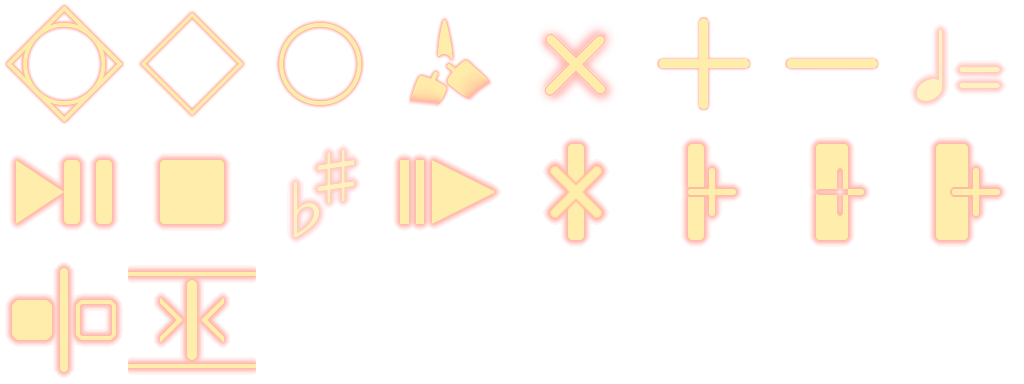
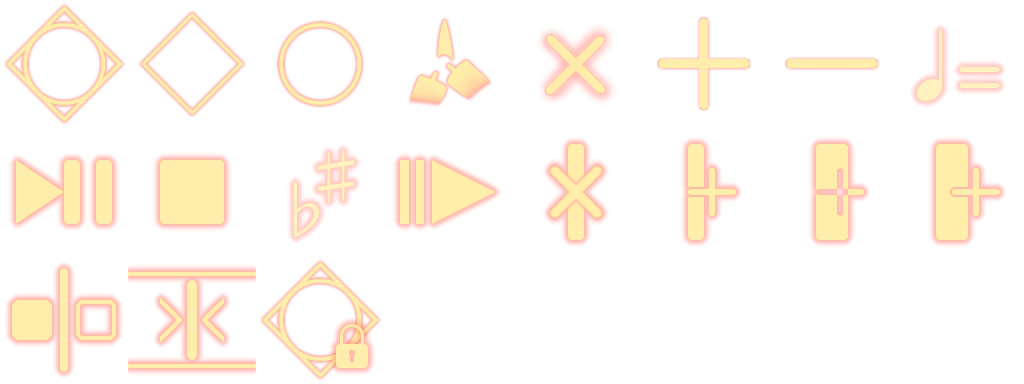
-

Changed region(s): [[0.25, 0.6875, 0.375, 1.0]]

diff --git a/seq.html b/seq.html
@@ -19,10 +19,10 @@
 	<script src="style.js" async></script>
 	<script src="sample.js"></script>
 	<style>
-		body{margin:0;user-select:none;-webkit-user-select:none;}*::-webkit-scrollbar{display:none;}
+		body{margin:0;user-select:none;-webkit-user-select:none;}/*::-webkit-scrollbar{display:none;}*/
 		.clear_fix::after{content:"";clear:both;display:block;}
 
-		.dispPanel{position:relative;width:100vw;height:240px;border:4px solid #0000;border-left:none;border-right:none;background:#000a repeating-linear-gradient(#fffc,#fffc 16px,#fff8 16px,#fff8 48px,#fffa 48px,#fffa 64px,#fff8 64px,#fff8 80px,#fffa 80px,#fffa 96px,#fff8 96px,#fff8 112px);}
+		.dispPanel{position:relative;width:100vw;height:240px;border:4px solid #0000;border-left:none;border-right:none;touch-action:manipulation;background:#000a repeating-linear-gradient(#fffc,#fffc 16px,#fff8 16px,#fff8 48px,#fffa 48px,#fffa 64px,#fff8 64px,#fff8 80px,#fffa 80px,#fffa 96px,#fff8 96px,#fff8 112px);}
 		.dispPanel>*,#dispScr>*{position:absolute;line-height:16px;font-size:8px;}
 		#dispScr{width:100%;height:100%;overflow:scroll;position:relative;}#disp{padding:0 64px 0 16px;display:flex;}
 		#dispCur{width:16px;height:100%;background:#f88;left:17px;transition:.1s;border-radius:4px;}
@@ -34,7 +34,7 @@
 		.grid{display:inline-block;width:48px;height:48px;margin:2px;background:#4448;color:#caf0f6;text-shadow:0 0 4px #688;border:none;border-radius:25%;box-shadow:0 0 8px #4448;text-align:center;vertical-align:middle;outline:none;font-size:18px;font-family:"M PLUS Rounded 1c",sans-serif;padding:0;touch-action:manipulation;}
 		.bg{background-image:url(img/seq.png);background-size:800% auto;background-position:var(--bp);}
 
-		.kbPanel{position:relative;width:100%;max-width:360px;float:left;clear:left;}.kbPanel:before{content:"";display:block;padding-top:60%;}
+		.kbPanel{position:relative;width:100%;max-width:360px;float:left;clear:left;touch-action:none;}.kbPanel:before{content:"";display:block;padding-top:60%;}
 		#kb{position:absolute;top:0;left:0;right:0;bottom:0;perspective:1000px;background:#0004;border-radius:8px;overflow:hidden;}#kb input{position:absolute;display:none;}#kb>div{height:33.3%;margin:0;}
 		#kb p{display:inline-block;width:20%;height:100%;margin:0;position:relative;}
 		#kb p::before,#kb p::after{content:"";display:block;width:84%;height:84%;margin:8%;border-radius:20%;position:absolute;}
@@ -45,10 +45,27 @@
 		#kb p:nth-child(4n):not(.c)::after{background-position:-100% 0;}
 		#kb input:checked+p::after{transform:rotateY(360deg)scale(.8);}
 
+		body>input[type="checkbox"]{display:none;}
 		#uiflip:checked~* .uiPanel{float:left;clear:left;}#uiflip:checked~* .kbPanel{float:right;clear:right;}
+		label[for="kblock"],label[for="tmute"],label[for="cmute"]{box-shadow:0 0 0 0 #fea inset;transition:.1s;}
+		#kblock:checked~* label[for="kblock"],#tmute:checked~* label[for="tmute"],#cmute:checked~* label[for="cmute"]{box-shadow:0 0 1px 3px #fea inset;}
+
+		.fg_{position:fixed;width:100vw;height:100vh;z-index:10;pointer-events:none;}
+		#alcb{display:none;}
+		#alcb+label{display:block;width:100%;height:100%;background:#0008;opacity:0;backdrop-filter:blur(2px);-webkit-backdrop-filter:blur(2px);pointer-events:none;transition:.2s;}
+		#alcb:checked+label{opacity:1;pointer-events:auto;}
+		#albox{width:calc(90% - 40px);max-width:256px;min-height:128px;border-radius:16px;padding:20px;white-space:pre-wrap;background:#4448;position:absolute;top:50%;left:50%;transform:translate(-50%,-50%);}
 	</style>
 	<style id="sty"></style>
-	<input type="checkbox" id="uiflip" style="display:none;">
+	<input type="checkbox" id="uiflip">
+	<input type="checkbox" id="kblock">
+	<input type="checkbox" id="tmute">
+	<input type="checkbox" id="cmute">
+	<div class="fg_">
+		<pre id="jswarn">Please enable JavaScript to use this app.</pre><script>jswarn.style.display='none';</script>
+		<input type="checkbox" id="alcb"><label for="alcb"><pre id="albox" class="style"></pre></label>
+	</div>
+
 
 	<div class="dispPanel">
 		<div id="dispScr"><div id="dispCur"></div><div id="disp"></div></div>
@@ -56,15 +73,17 @@
 	</div>
 	<div class="clear_fix">
 		<div class="uiPanel">
-			<div>
-				         <button class="grid bg" style="--bp:-300% -100%;transform:rotateZ(180deg);" onclick="tstep(-1);">
-				</button><button onclick="Tone.start();ttoggle();" class="grid bg" style="--bp:0 -100%;"></button><button onclick="tstop();" class="grid bg" style="--bp:-100% -100%;">
-				</button><button class="grid bg" style="--bp:-300% -100%;" onclick="tstep(1);"></button><br>
-				         <button class="grid bg" style="--bp:-400% -100%;">
-				</button><button class="grid bg" style="--bp:-500% -100%;">
-				</button><button class="grid bg" style="--bp:-600% -100%;">
-				</button><button class="grid bg" style="--bp:-700% -100%;"></button>
-			</div>
+			         <button class="grid bg" style="--bp:-300% -100%;transform:rotateZ(180deg);" onclick="tstep(-1);">
+			</button><button onclick="Tone.start();ttoggle();" class="grid bg" style="--bp:0 -100%;"></button><button onclick="tstop();" class="grid bg" style="--bp:-100% -100%;">
+			</button><button class="grid bg" style="--bp:-300% -100%;" onclick="tstep(1);"></button><br>
+			         <button class="grid bg" style="--bp:-400% -100%;">
+			</button><button class="grid bg" style="--bp:-500% -100%;">
+			</button><button class="grid bg" style="--bp:-600% -100%;">
+			</button><button class="grid bg" style="--bp:-700% -100%;"></button><br>
+			         <button onclick="userscr[0]=true;dispScr.scrollLeft=dispCur.getBoundingClientRect().left+dispScr.scrollLeft+window.scrollX-dispScr.clientWidth*.5;" class="grid bg" style="--bp:-100% -200%;">
+			</button><label for="kblock" class="grid bg" style="--bp:-200% -200%;">
+			</label><label for="tmute" class="grid bg" style="--bp:-300% -200%;">
+			</label><label for="cmute" class="grid bg" style="--bp:-300% -200%;"></label>
 		</div>
 		<div class="kbPanel">
 			<div id="kb">
@@ -74,14 +93,14 @@
 			</div>
 		</div>
 		<div class="uiPanel">
-			<div>
-				         <button onclick="main.bpm-=6;Tone.Transport.bpm.value-=6;bpm_.value=main.bpm;" class="grid bg" style="--bp:-600% 0;">
-				</button><input id="bpm_" class="grid bg" onchange="bpmset();" style="--bp:-700% 0;"></input><button onclick="main.bpm+=6;Tone.Transport.bpm.value+=6;bpm_.value=main.bpm;" class="grid bg" style="--bp:-500% 0;">
-				</button><br><button onclick="sc_.value=--main.sc;" class="grid bg" style="--bp:-600% 0;">
-				</button><input id="sc_" class="grid bg" onchange="scset();" style="--bp:-200% -100%;"></input><button onclick="sc_.value=++main.sc;" class="grid bg" style="--bp:-500% 0;"></button>
-			</div>
+			         <button onclick="main.bpm-=6;Tone.Transport.bpm.value-=6;bpm_.value=main.bpm;" class="grid bg" style="--bp:-600% 0;">
+			</button><input id="bpm_" class="grid bg" onchange="bpmset();" style="--bp:-700% 0;"></input><button onclick="main.bpm+=6;Tone.Transport.bpm.value+=6;bpm_.value=main.bpm;" class="grid bg" style="--bp:-500% 0;">
+			</button><br><button onclick="sc_.value=--main.sc;" class="grid bg" style="--bp:-600% 0;">
+			</button><input id="sc_" class="grid bg" onchange="scset();" style="--bp:-200% -100%;"></input><button onclick="sc_.value=++main.sc;" class="grid bg" style="--bp:-500% 0;"></button>
+		</div>
+		<div class="uiPanel">
 			<label for="uiflip" class="grid bg" style="--bp:0 -200%;">
-			</label><button onclick="userscr[0]=true;dispScr.scrollLeft=dispCur.getBoundingClientRect().left+dispScr.scrollLeft+window.scrollX-dispScr.clientWidth*.5;" class="grid bg" style="--bp:-100% -200%;"></button>
+			</label><button onclick="alert(info);" class="grid bg" style="--bp:-300% 0;"></button>
 		</div>
 	</div>
 
@@ -103,11 +122,13 @@
 	<script src="https://mcbeeringi.github.io/src/requestIdleCallback.min.js"></script>
 	<script>
 		'use strict';
+		alert=x=>{albox.textContent=x;alcb.checked=true;}
 		//window.onbeforeunload=e=>{e.preventDefault();return'';};
 
 		var seq,sc=Number(sc_.value),main,rendered,p=0,curpos=0,userscr=[false,false];
-		const llog=(x,c)=>{if(c)log.textContent='';log.textContent+=`${c?'':'\n'}${x}`;},
-		url_o=(x)=>JSON.stringify(x).replace(/\"/g,"'").replace(/,/g,'.').replace(/\[/g,'(').replace(/\]/g,')'), url_i=(x)=>JSON.parse(x.replace(/'/g,'"').replace(/\./g,',').replace(/\(/g,'[').replace(/\)/g,']')),
+		const info='Powerd by Tone.js\nAudio: GarageBand\n\nauthor:@SkyEringi\nbuild:xxxxxxx\nMIT License',
+		llog=(x,c)=>{if(c)log.textContent='';log.textContent+=`${c?'':'\n'}${x}`;},
+		//url_o=(x)=>JSON.stringify(x).replace(/\"/g,"'").replace(/,/g,'.').replace(/\[/g,'(').replace(/\]/g,')'), url_i=(x)=>JSON.parse(x.replace(/'/g,'"').replace(/\./g,',').replace(/\(/g,'[').replace(/\)/g,']')),
 		mbxli=()=>{var s={};for(var i=3;i<=6;i++){s[`a${i}`]=`a${i}.mp3`;s[`d#${i+1}`]=`ds${i+1}.mp3`;}return s;},
 		synth=new Tone.Sampler(mbxli(),()=>{},"https://mcbeeringi.github.io/sky/audio/instr/musicbox/").connect(new Tone.Volume(-10).toDestination()),
 		toHz=x=>880*Math.pow(2,(Number(x)+main.sc)/12),//C5~C7
@@ -146,7 +167,7 @@
 				if(note){
 					kbset(note);
 					note=note.split(',');
-					synth.triggerAttackRelease(note.map(toHz),'1m',time);
+					if(!tmute.checked)synth.triggerAttackRelease(note.map(toHz),'1m',time);
 					llog(`${note.map(x=>n2c[(Number(x)+main.sc+12)%12]+(Math.floor((Number(x)+main.sc)*.08333)+4)/*49+Number(x)+main.sc*/)}`,1);
 				}else kbset('');
 
@@ -161,8 +182,12 @@
 		document.querySelectorAll('#kb p').forEach((e,i)=>{
 			e.addEventListener('pointerdown',ev=>{
 				ev.preventDefault();
-				if(e.previousElementSibling.checked==false)synth.triggerAttackRelease(toHz(i2n[i]));
-				e.previousElementSibling.checked=!e.previousElementSibling.checked;
+				if(kblock.checked){
+					if(!cmute.checked)synth.triggerAttackRelease(toHz(i2n[i]));
+				}else{
+					if(e.previousElementSibling.checked==false&&!cmute.checked)synth.triggerAttackRelease(toHz(i2n[i]));
+					e.previousElementSibling.checked=!e.previousElementSibling.checked;
+				}
 			});
 		});
 		document.addEventListener('keydown',e=>{
@@ -185,7 +210,7 @@
 
 
 				main=sample[slc.value];
-				log.textContent='build: 2101236';
+				log.textContent='build: 2101240';
 
 
 		/////from gui
@@ -201,7 +226,7 @@
 			dispCur.style.left=rendered.e[curpos].getBoundingClientRect().left+dispScr.scrollLeft+window.scrollX+'px';
 			Tone.Transport.position=p2pos(rendered.p[curpos]);
 			scrset();
-			var note=kbset();if(note[0])synth.triggerAttackRelease(note.map(toHz));
+			var note=kbset();if(note[0]&&!cmute.checked)synth.triggerAttackRelease(note.map(toHz));
 		};
 		disp.onclick=e=>{
 			if(e.target.classList.contains('t')){
@@ -210,7 +235,7 @@
 				setTimeout(()=>e.target.style.background='',100);
 				Tone.Transport.position=p2pos(e.target.dataset.p);
 				curset();
-				var note=kbset();if(note[0])synth.triggerAttackRelease(note.map(toHz));
+				var note=kbset();if(note[0]&&!cmute.checked)synth.triggerAttackRelease(note.map(toHz));
 			}
 		};
 		dispScr.addEventListener('scroll',e=>{if(userscr[0])userscr[0]=false;else userscr[1]=true;});
